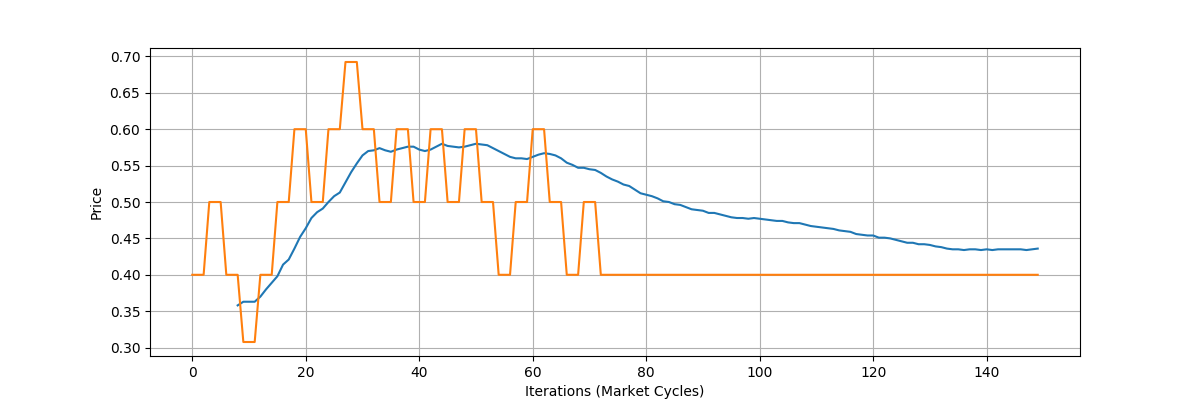
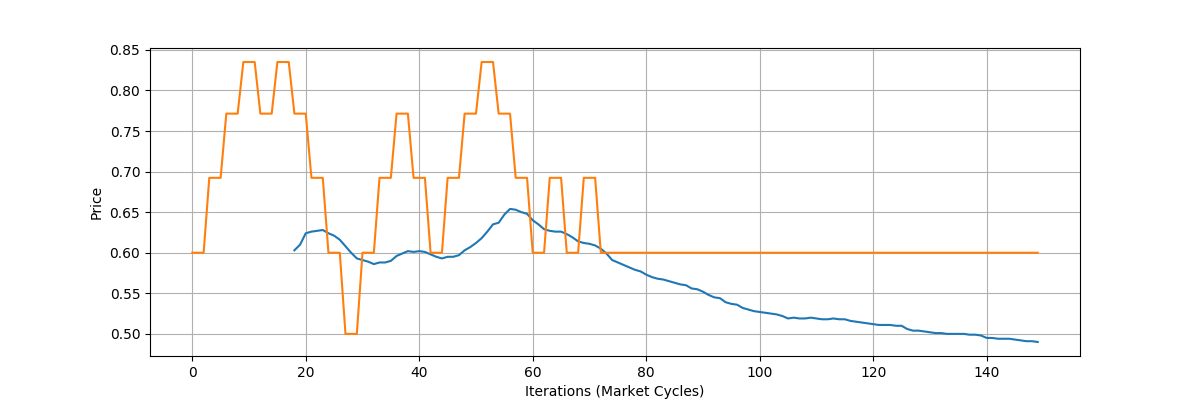
fixed dumb mistake

diff --git a/main.py b/main.py
@@ -14,8 +14,8 @@ N_AGENTS = args.n
 MAX_ITER = args.i
 
 N_EVIDENCE = 20
-FRACTION_RECEIVING_EVIDENCE = 0.6667
-FRACTION_EXTRA_TIME = 0.5
+FRACTION_RECEIVING_EVIDENCE = 0.1
+FRACTION_EXTRA_TIME = 0.66667
 EVIDENCE_TIME = int((1-FRACTION_EXTRA_TIME)*MAX_ITER)
 
 #Values pertaining to agent behavior
@@ -308,8 +308,8 @@ def main():
     plt.xlabel("Iterations (Market Cycles)")
     plt.ylabel("Price")
     plt.grid()
-    plt.show()
-    #plt.savefig('foo.png')
+    #plt.show()
+    plt.savefig('foo.png')
 
 
 if __name__ == "__main__":
